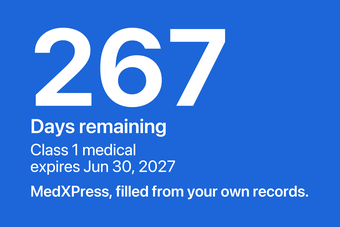
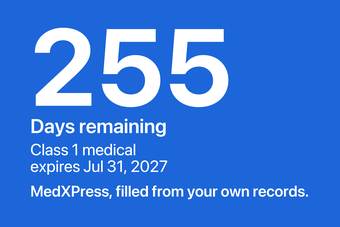
Search results asset: 255 / expires Jul 31, 2027, matching the header asset; script writes to its own folder

diff --git a/screenshots/asc/build-search-asset.py b/screenshots/asc/build-search-asset.py
@@ -5,7 +5,8 @@ disappears. The phone is a blur. The MedXPress line is gone." So search gets its
 (`build-header-asset.py`, unchanged). In ASC: uncheck "Use header asset in search results" and upload this on the
 Search Results tab, which accepts 5244 x 2950, 3840 x 2560 or 1920 x 1280.
 
-Spec, exact: blue field #1C66D9, white type. 267, large. Under it: Days remaining / Class 1 medical / expires Jun 30, 2027.
+Spec, exact: blue field #1C66D9, white type. The number, large. Under it: Days remaining / Class 1 medical / expires <date>.
+(Was 267 / Jun 30, 2027 on 10/07; since 11/22 DAYS and EXPIRES below, matching the header asset.)
 Under the date, ONE line: "MedXPress, filled from your own records." No phone, no Mac, no second feature, no price, URL,
 FAA approval, fit-to-fly wording or em dash.
 
@@ -19,7 +20,11 @@ type on the asset is that line, at about 4% of the asset's width.
 from PIL import Image, ImageDraw, ImageFont
 import os
 
-OUT = os.path.expanduser("~/pilot-medical-guardian-content/screenshots/asc/search")
+# 11/22: the script's own folder (the old hard-coded ~/pilot-medical-guardian-content path wrote into the main checkout
+# from any worktree, the same trap build-header-asset.py hit on 11/13).
+OUT = os.path.join(os.path.dirname(os.path.abspath(__file__)), "search")
+# The number and date match the header asset (build-header-asset.py DAYS, EXPIRES) so search and product page agree.
+DAYS, EXPIRES = "255", "expires Jul 31, 2027"
 SF = "/System/Library/Fonts/SFNS.ttf"
 BLUE = (0x1C, 0x66, 0xD9)
 WHITE = (255, 255, 255)
@@ -51,7 +56,7 @@ def draw_stack(canvas, box):
     line_f = font(s, 600)
     rows = [("Days remaining", font(s * 1.30, 600), s * 0.45),
             ("Class 1 medical", font(s * 1.06, 440), s * 0.32),
-            ("expires Jun 30, 2027", font(s * 1.06, 440), s * 0.70),
+            (EXPIRES, font(s * 1.06, 440), s * 0.70),
             (LINE, line_f, 0)]
     rows_h = sum(f.getbbox(t)[3] - f.getbbox(t)[1] + g for t, f, g in rows)
 
@@ -61,15 +66,15 @@ def draw_stack(canvas, box):
     big_s = 3000
     while True:
         bf = font(big_s, 700)
-        bb = bf.getbbox("267")
-        if bb[3] - bb[1] <= avail and d.textlength("267", font=bf) <= width:
+        bb = bf.getbbox(DAYS)
+        if bb[3] - bb[1] <= avail and d.textlength(DAYS, font=bf) <= width:
             break
         big_s -= 2
-    bb = bf.getbbox("267")
+    bb = bf.getbbox(DAYS)
     total = (bb[3] - bb[1]) + gap_after_big + rows_h
     y = y0 + (bh - total) / 2
     x = x0 + mx
-    d.text((x - bb[0] * 0.5, y - bb[1]), "267", font=bf, fill=WHITE)
+    d.text((x - bb[0] * 0.5, y - bb[1]), DAYS, font=bf, fill=WHITE)
     y += (bb[3] - bb[1]) + gap_after_big
     for text, f, gap in rows:
         b = f.getbbox(text)
@@ -86,7 +91,7 @@ def build(w, h, box, name):
     os.makedirs(OUT, exist_ok=True)
     path = os.path.join(OUT, name)
     c.save(path, optimize=True)
-    print(f"wrote {name} {c.size} line {info['line_px']}px ({info['line_px'] / (box[2] - box[0]):.1%} of box width), 267 at {info['big_px']}px")
+    print(f"wrote {name} {c.size} line {info['line_px']}px ({info['line_px'] / (box[2] - box[0]):.1%} of box width), number at {info['big_px']}px")
     return c
 
 
